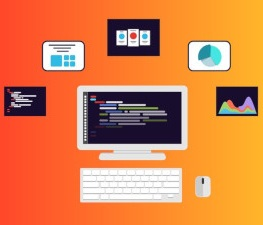
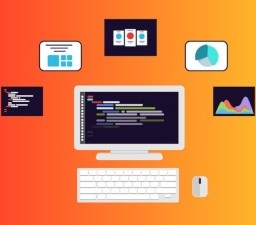
Updates

diff --git a/public/css/app.css b/public/css/app.css
@@ -142,7 +142,8 @@ h2:after {
 }
 
 .course-img {
-  max-height: 225px;
+  height: 225px;
+  width: 225px;
   line-height: 2.5em;
 }
 
@@ -517,6 +518,24 @@ svg {
 #about {
   padding-bottom: 150px;
 }
+
+#pause {
+  background-color: white;
+}
+
+#pause:hover {
+  border: 7px solid #e9ecef;
+  background-color: white;
+}
+
+ #pause-heading {
+   color: #666666;
+ }
+
+.fa-pause {
+  text-size-adjust: 20px;
+}
+
 .portfolio-modal {
   padding-right: 0px !important;
 }
@@ -885,6 +904,7 @@ section#contact :-ms-input-placeholder {
 
 .footer {
   padding: 25px 0;
+  margin-bottom: 30px;
   text-align: center;
 }
 
